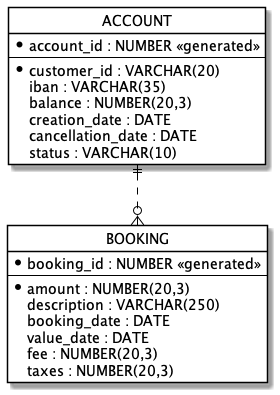
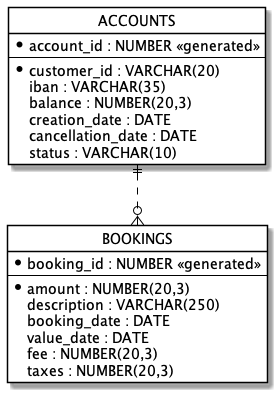
TABLE "account" renamed to "accounts"

Changed region(s): [[0.3429, 0.0304, 0.6286, 0.0911], [0.3714, 0.5772, 0.6286, 0.638]]

diff --git a/modules/datagen/core_banking_repo.go b/modules/datagen/core_banking_repo.go
@@ -45,7 +45,7 @@ func (r CoreBankingRepo) GetOpenAccount(customerId string) *AccountStruct {
        creation_date, 
        cancellation_date, 
        status 
-	FROM account 
+	FROM accounts 
 	WHERE customer_id = $1 
 	AND status = 'OPEN'
 	ORDER BY RANDOM() LIMIT 1`, customerId)
@@ -64,7 +64,7 @@ func (r CoreBankingRepo) GetOpenAccount(customerId string) *AccountStruct {
 
 func (r CoreBankingRepo) StoreAccount(account AccountStruct) AccountStruct {
 	r.db.QueryRow(`INSERT 
-		INTO account (
+		INTO accounts (
 					  customer_id,
 					  iban,
 					  balance,
@@ -84,7 +84,7 @@ func (r CoreBankingRepo) StoreAccount(account AccountStruct) AccountStruct {
 }
 
 func (r CoreBankingRepo) GetAccount(accountId int32) AccountStruct {
-	rows, err := r.db.Query(`SELECT * FROM account
+	rows, err := r.db.Query(`SELECT * FROM accounts
 		WHERE account_id = $1`,
 		accountId)
 
@@ -98,7 +98,7 @@ func (r CoreBankingRepo) GetAccount(accountId int32) AccountStruct {
 
 }
 func (r CoreBankingRepo) UpdateAccountBalance(accountId int32, balance float64) AccountStruct {
-	rows, err := r.db.Query(`UPDATE account 
+	rows, err := r.db.Query(`UPDATE accounts 
 	    SET balance = $1
 	    WHERE account_id = $2`,
 		balance,
@@ -114,7 +114,7 @@ func (r CoreBankingRepo) UpdateAccountBalance(accountId int32, balance float64) 
 
 func (r CoreBankingRepo) StoreBooking(booking BookingStruct) BookingStruct {
 	err := r.db.QueryRow(`INSERT 
-			INTO booking (
+			INTO bookings (
 						  account_id,
 						  amount,
 						  description,
